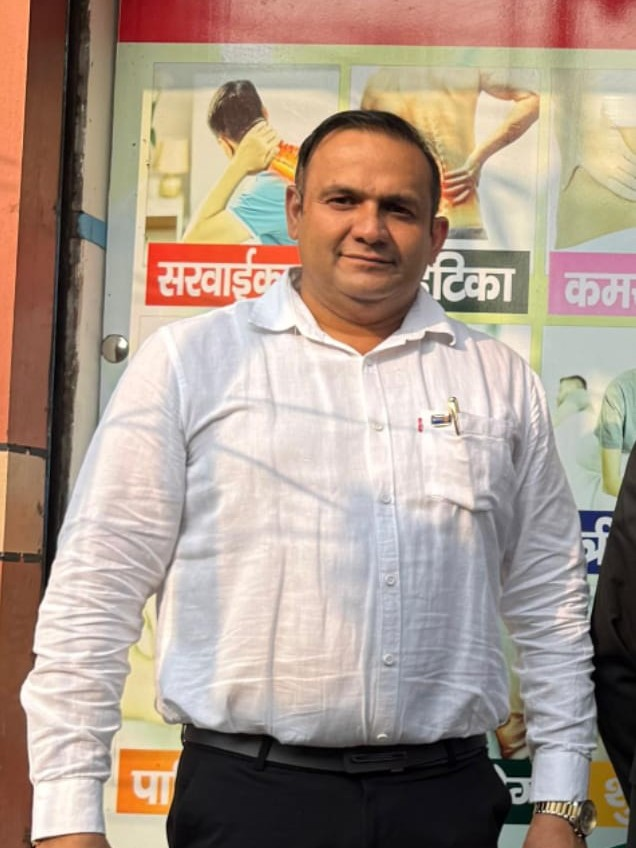
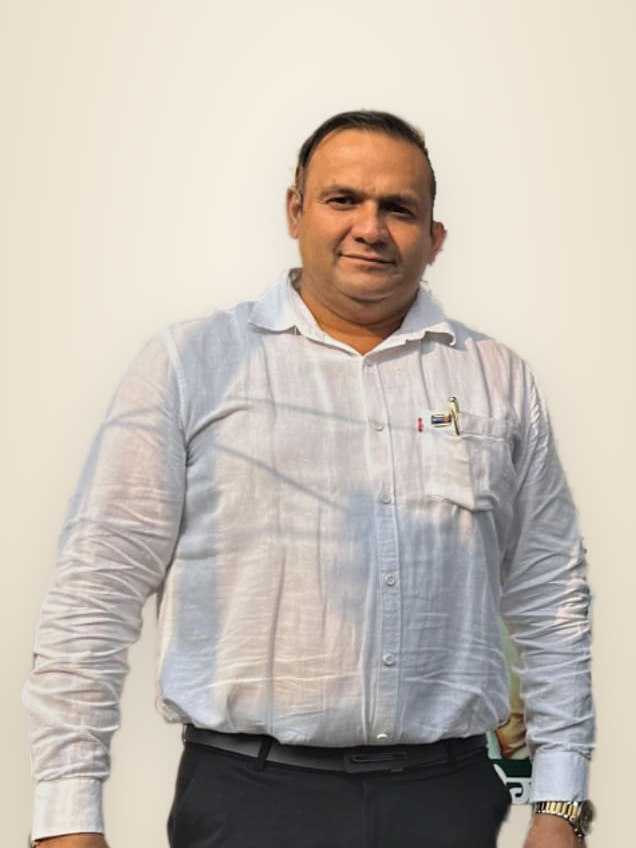
Retouched director portrait; single three-column feature box

diff --git a/app/page.tsx b/app/page.tsx
@@ -50,11 +50,13 @@ export default function Home() {
 
         {/* Why */}
         <section className="mx-auto max-w-6xl px-5 py-16">
-          <div className="grid gap-5 md:grid-cols-3">
-            {[["Drug-free care", "Natural therapies and yoga that work with the body instead of masking symptoms."], ["Three decades of experience", "Serving Rohtak and nearby towns since 1995 with a steady, patient-first approach."], ["One roof, many therapies", "Acupressure, hydro therapy, Ceragem, Sujok and more, combined into a plan for you."]].map(([t, d], i) => (
-              <Reveal key={t} delay={i * 120}><div className="h-full rounded-3xl bg-white p-7 shadow-sm"><h3 className="font-display text-2xl text-moss-dark">{t}</h3><p className="mt-3 text-ink/70">{d}</p></div></Reveal>
-            ))}
-          </div>
+          <Reveal>
+            <div className="grid divide-y divide-moss/20 overflow-hidden rounded-3xl border border-moss/20 bg-white shadow-sm md:grid-cols-3 md:divide-x md:divide-y-0">
+              {[["Drug-free care", "Natural therapies and yoga that work with the body instead of masking symptoms."], ["Three decades of experience", "Serving Rohtak and nearby towns since 1995 with a steady, patient-first approach."], ["One roof, many therapies", "Acupressure, hydro therapy, Ceragem, Sujok and more, combined into a plan for you."]].map(([t, d]) => (
+                <div key={t} className="p-8"><h3 className="font-display text-2xl text-moss-dark">{t}</h3><p className="mt-3 text-ink/70">{d}</p></div>
+              ))}
+            </div>
+          </Reveal>
         </section>
 
         {/* Treatments */}
